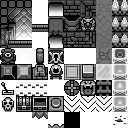
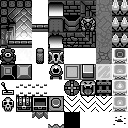
Remove Draggable Block from Game
the DungeonStatue is now the only draggable object in game.

removed draggable block sprite from dungeon sheet.
removed BlockDraggable value from ObjType enum.
removed BlockDraggable objAnimList.
removed BlockDraggable from Obj.SetType().
removed BlockDraggable from ObjectToolsWidget.
this frees up 1 frame in dungeon sheet.

Changed region(s): [[0.25, 0.5, 0.375, 0.625]]

diff --git a/GameClasses/WidgetObjectTools.cs b/GameClasses/WidgetObjectTools.cs
@@ -104,7 +104,7 @@ namespace DungeonRun
                         else if (j == 1) { Functions_GameObject.SetType(obj, ObjType.Pillar); }
                         else if (j == 2) { Functions_GameObject.SetType(obj, ObjType.BlockDark); }
                         else if (j == 3) { Functions_GameObject.SetType(obj, ObjType.BlockLight); }
-                        else if (j == 4) { Functions_GameObject.SetType(obj, ObjType.BlockDraggable); }
+                        //else if (j == 4) { Functions_GameObject.SetType(obj, ObjType.BossStatue); }
                     }
                     else if (i == 1) //second row
                     {

diff --git a/GameClasses/Functions_GameObject.cs b/GameClasses/Functions_GameObject.cs
@@ -274,15 +274,6 @@ namespace DungeonRun
                 Obj.canBeSaved = true;
                 Obj.compMove.moveable = true;
             }
-            else if (Type == ObjType.BlockDraggable)
-            {
-                Obj.compCollision.rec.Height = 12;
-                Obj.compCollision.offsetY = -4;
-                Obj.compSprite.zOffset = -7;
-                Obj.group = ObjGroup.Draggable;
-                Obj.canBeSaved = true;
-                Obj.compMove.moveable = true;
-            }
 
             #endregion
 

diff --git a/GameClasses/Enumerators.cs b/GameClasses/Enumerators.cs
@@ -66,7 +66,7 @@ namespace DungeonRun
         PitAnimated, PitTop, PitBottom, PitTrapReady, PitTrapOpening,
         BossStatue, Pillar,
         ChestKey, ChestMap, ChestEmpty,
-        BlockDraggable, BlockDark, BlockLight,
+        BlockDark, BlockLight,
         //lever + lever activated objects
         LeverOn, LeverOff,
         SpikesFloorOn, SpikesFloorOff,

diff --git a/GameClasses/Functions_GameObjectAnimList.cs b/GameClasses/Functions_GameObjectAnimList.cs
@@ -98,8 +98,6 @@ namespace DungeonRun
                 //ChestEmpty
                 new List<Byte4> { new Byte4(2, 6, 0, 0) },
 
-                //BlockDraggable
-                new List<Byte4> { new Byte4(2, 4, 0, 0) },
                 //BlockDark
                 new List<Byte4> { new Byte4(0, 4, 0, 0) },
                 //BlockLight
